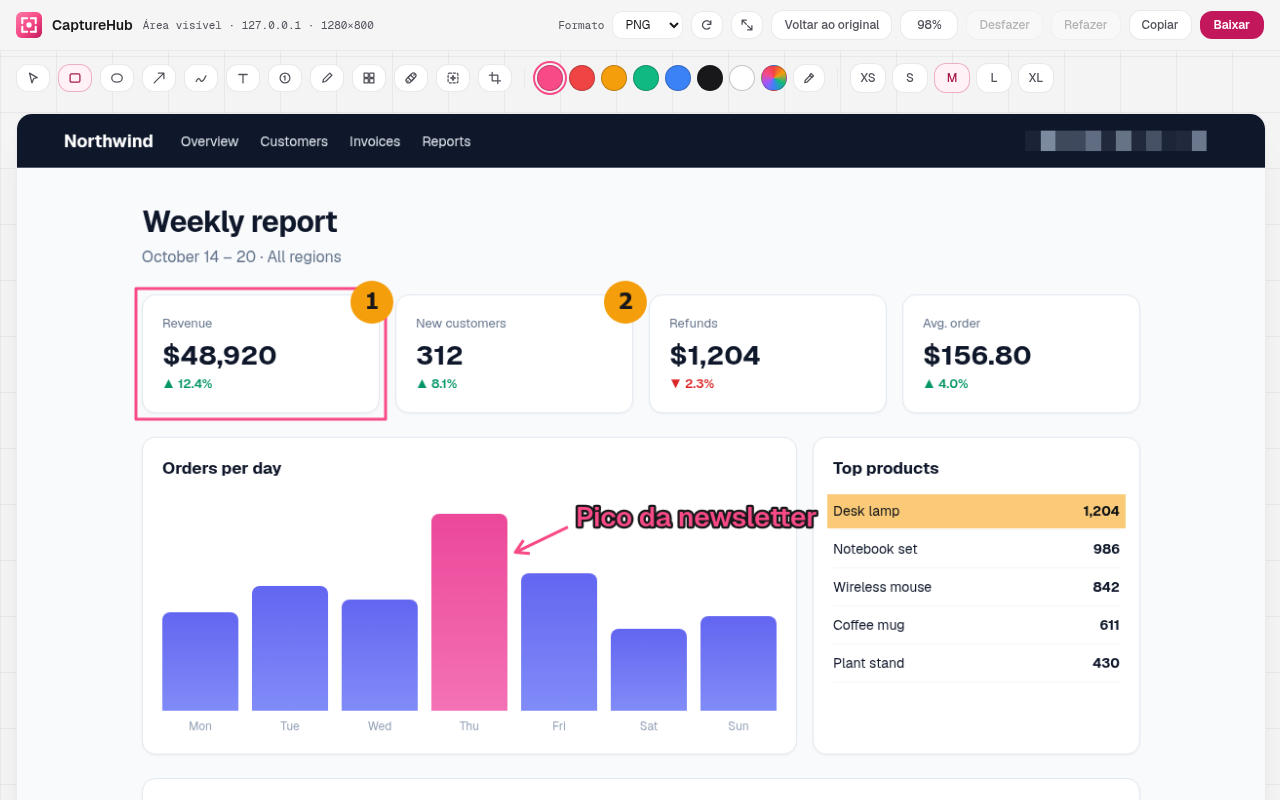
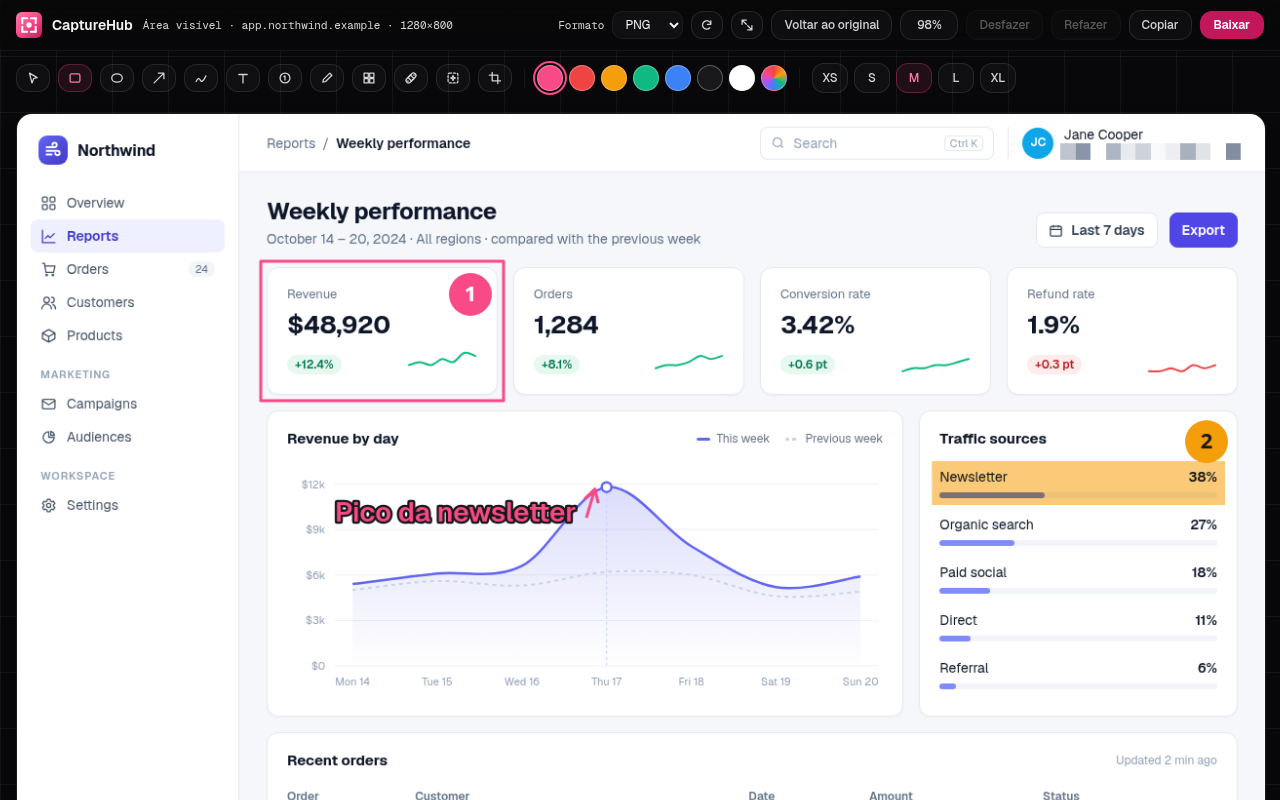
Store screenshots: refresh 01-editor for 15 locales; add e2e fixtures

diff --git a/tests/e2e/fixtures/showcase.html b/tests/e2e/fixtures/showcase.html
@@ -1,0 +1,186 @@
+<!DOCTYPE html>
+<html lang="en">
+<head>
+    <meta charset="UTF-8">
+    <title>Weekly performance · Northwind</title>
+    <!-- Mağaza ekran görüntüsü 01 (düzenleyici) için örnek analiz paneli (tools/make-store-assets.mjs). Veriler uydurmadır. -->
+    <style>
+        @font-face { font-family: 'Geist'; font-weight: 400; src: url('/fonts/geist-400-normal-B40WzpMT.woff2') format('woff2'); }
+        @font-face { font-family: 'Geist'; font-weight: 600; src: url('/fonts/geist-600-normal-CSETrqM2.woff2') format('woff2'); }
+        @font-face { font-family: 'Geist'; font-weight: 700; src: url('/fonts/geist-700-normal-CFi8mLqe.woff2') format('woff2'); }
+        * { box-sizing: border-box; }
+        body { margin: 0; display: flex; min-height: 100vh; font-family: Geist, system-ui, sans-serif; font-size: 14px; color: #0f172a; background: #f6f7fb; }
+        svg { display: block; }
+        aside { flex: 0 0 228px; padding: 18px 14px; background: #ffffff; border-right: 1px solid #e7e9f0; }
+        .brand { display: flex; align-items: center; gap: 10px; padding: 4px 8px 22px; font-size: 16px; font-weight: 700; letter-spacing: -0.2px; }
+        .logo { display: grid; place-items: center; width: 30px; height: 30px; border-radius: 9px; background: linear-gradient(135deg, #6366f1, #4338ca); }
+        .section { padding: 16px 10px 6px; font-size: 11px; font-weight: 600; letter-spacing: 0.08em; text-transform: uppercase; color: #94a3b8; }
+        nav a { display: flex; align-items: center; gap: 10px; padding: 8px 10px; border-radius: 8px; color: #475569; text-decoration: none; }
+        nav a.on { background: #eef0ff; color: #4338ca; font-weight: 600; }
+        nav a .n { margin-left: auto; padding: 1px 7px; border-radius: 999px; background: #f1f5f9; font-size: 11px; color: #64748b; }
+        nav svg { width: 17px; height: 17px; fill: none; stroke: currentColor; stroke-width: 1.8; stroke-linecap: round; stroke-linejoin: round; }
+        .page { flex: 1; min-width: 0; }
+        .top { display: flex; align-items: center; gap: 14px; height: 60px; padding: 0 28px; background: #ffffff; border-bottom: 1px solid #e7e9f0; }
+        .crumbs { color: #64748b; }
+        .crumbs b { color: #0f172a; font-weight: 600; }
+        .search { margin-left: auto; display: flex; align-items: center; gap: 8px; width: 240px; padding: 7px 10px; border: 1px solid #e2e8f0; border-radius: 8px; color: #94a3b8; }
+        .search kbd { margin-left: auto; padding: 0 5px; border: 1px solid #e2e8f0; border-radius: 4px; font: 11px Geist, sans-serif; }
+        .me { display: flex; align-items: center; gap: 10px; padding-left: 14px; border-left: 1px solid #e7e9f0; line-height: 1.25; }
+        .me small { display: block; color: #64748b; font-size: 12px; }
+        .av { display: grid; place-items: center; flex: 0 0 auto; width: 32px; height: 32px; border-radius: 50%; color: #fff; font-size: 12px; font-weight: 600; }
+        main { padding: 24px 28px; }
+        .head { display: flex; align-items: flex-end; gap: 12px; margin-bottom: 20px; }
+        h1 { margin: 0 0 4px; font-size: 24px; letter-spacing: -0.4px; }
+        .sub { margin: 0; color: #64748b; }
+        .btn { display: flex; align-items: center; gap: 8px; padding: 8px 12px; border: 1px solid #e2e8f0; border-radius: 8px; background: #ffffff; font-weight: 600; color: #334155; }
+        .btn.primary { border-color: #4f46e5; background: #4f46e5; color: #ffffff; }
+        .head .btn:first-of-type { margin-left: auto; }
+        .stats { display: grid; grid-template-columns: repeat(4, 1fr); gap: 16px; margin-bottom: 16px; }
+        .card { padding: 18px 20px; border: 1px solid #e7e9f0; border-radius: 12px; background: #ffffff; box-shadow: 0 1px 2px rgb(15 23 42 / 0.04); }
+        .label { color: #64748b; font-size: 13px; }
+        .value { margin: 6px 0 10px; font-size: 26px; font-weight: 700; letter-spacing: -0.5px; }
+        .row { display: flex; align-items: center; justify-content: space-between; }
+        .delta { padding: 2px 8px; border-radius: 999px; font-size: 12px; font-weight: 600; }
+        .delta.up { background: #e7f8ef; color: #047857; }
+        .delta.down { background: #fdecec; color: #b91c1c; }
+        .meta { color: #94a3b8; font-size: 12px; margin-left: 8px; }
+        .grid { display: grid; grid-template-columns: 2fr 1fr; gap: 16px; margin-bottom: 16px; }
+        h2 { margin: 0; font-size: 15px; }
+        .legend { display: flex; gap: 16px; color: #64748b; font-size: 12px; }
+        .legend i { display: inline-block; width: 14px; height: 3px; margin-right: 6px; vertical-align: middle; border-radius: 2px; background: #6366f1; }
+        .legend i.prev { background: repeating-linear-gradient(90deg, #cbd5e1 0 4px, transparent 4px 7px); }
+        #chart svg { width: 100%; height: 236px; margin-top: 12px; }
+        .src li { padding: 9px 0; }
+        .src ul { margin: 12px 0 0; padding: 0; list-style: none; }
+        .src .row span:last-child { font-weight: 600; }
+        .track { height: 6px; margin-top: 7px; border-radius: 999px; background: #f1f5f9; }
+        .track div { height: 100%; border-radius: 999px; background: #818cf8; }
+        table { width: 100%; margin-top: 10px; border-collapse: collapse; }
+        th { padding: 10px 0; text-align: left; color: #64748b; font-size: 12px; font-weight: 600; border-bottom: 1px solid #e7e9f0; }
+        td { padding: 11px 0; border-bottom: 1px solid #f1f5f9; }
+        .who { display: flex; align-items: center; gap: 10px; }
+        .who .av { width: 26px; height: 26px; font-size: 11px; }
+        .pill { padding: 3px 9px; border-radius: 999px; font-size: 12px; font-weight: 600; }
+        .paid { background: #e7f8ef; color: #047857; }
+        .pending { background: #fef4e2; color: #b45309; }
+    </style>
+</head>
+<body>
+    <aside>
+        <div class="brand">
+            <span class="logo"><svg width="18" height="18" viewBox="0 0 24 24" fill="none" stroke="#fff" stroke-width="2.4" stroke-linecap="round"><path d="M3 8h11a3 3 0 1 0-3-3M3 13h15a3 3 0 1 1-3 3M3 18h7"/></svg></span>
+            Northwind
+        </div>
+        <nav>
+            <a><svg viewBox="0 0 24 24"><rect x="3" y="3" width="7" height="7" rx="1.5"/><rect x="14" y="3" width="7" height="7" rx="1.5"/><rect x="3" y="14" width="7" height="7" rx="1.5"/><rect x="14" y="14" width="7" height="7" rx="1.5"/></svg>Overview</a>
+            <a class="on"><svg viewBox="0 0 24 24"><path d="M3 3v18h18M7 15l4-4 3 3 6-6"/></svg>Reports</a>
+            <a><svg viewBox="0 0 24 24"><path d="M6 7h15l-2 9H8L6 3H3"/><circle cx="9" cy="20" r="1"/><circle cx="18" cy="20" r="1"/></svg>Orders<span class="n">24</span></a>
+            <a><svg viewBox="0 0 24 24"><circle cx="9" cy="8" r="4"/><path d="M2 21a7 7 0 0 1 14 0M16 4a4 4 0 0 1 0 8M22 21a7 7 0 0 0-4-6.3"/></svg>Customers</a>
+            <a><svg viewBox="0 0 24 24"><path d="M21 8l-9-5-9 5 9 5 9-5zM3 8v8l9 5 9-5V8M12 13v8"/></svg>Products</a>
+            <div class="section">Marketing</div>
+            <a><svg viewBox="0 0 24 24"><rect x="3" y="5" width="18" height="14" rx="2"/><path d="M3 7l9 6 9-6"/></svg>Campaigns</a>
+            <a><svg viewBox="0 0 24 24"><path d="M20 12a8 8 0 1 1-8-8v8z"/><path d="M15 3.5A8 8 0 0 1 20.5 9H15z"/></svg>Audiences</a>
+            <div class="section">Workspace</div>
+            <a><svg viewBox="0 0 24 24"><circle cx="12" cy="12" r="3"/><path d="M19 12a7 7 0 0 0-.1-1.2l2-1.6-2-3.4-2.4 1a7 7 0 0 0-2-1.2L14 3h-4l-.5 2.6a7 7 0 0 0-2 1.2l-2.4-1-2 3.4 2 1.6a7 7 0 0 0 0 2.4l-2 1.6 2 3.4 2.4-1a7 7 0 0 0 2 1.2L10 21h4l.5-2.6a7 7 0 0 0 2-1.2l2.4 1 2-3.4-2-1.6c.1-.4.1-.8.1-1.2z"/></svg>Settings</a>
+        </nav>
+    </aside>
+    <div class="page">
+        <div class="top">
+            <span class="crumbs">Reports &nbsp;/&nbsp; <b>Weekly performance</b></span>
+            <span class="search"><svg width="15" height="15" viewBox="0 0 24 24" fill="none" stroke="currentColor" stroke-width="2"><circle cx="11" cy="11" r="7"/><path d="M20 20l-4-4"/></svg>Search<kbd>Ctrl K</kbd></span>
+            <span class="me"><span class="av" style="background:#0ea5e9">JC</span><span>Jane Cooper<small class="email">jane.cooper@northwind.example</small></span></span>
+        </div>
+        <main>
+            <div class="head">
+                <div><h1>Weekly performance</h1><p class="sub">October 14 – 20, 2024 · All regions · compared with the previous week</p></div>
+                <span class="btn"><svg width="15" height="15" viewBox="0 0 24 24" fill="none" stroke="currentColor" stroke-width="2"><rect x="3" y="5" width="18" height="16" rx="2"/><path d="M3 10h18M8 3v4M16 3v4"/></svg>Last 7 days</span>
+                <span class="btn primary">Export</span>
+            </div>
+
+            <section class="stats">
+                <div class="card"><div class="label">Revenue</div><div class="value">$48,920</div><div class="row"><span><span class="delta up">+12.4%</span></span><svg class="spark" width="72" height="26"></svg></div></div>
+                <div class="card"><div class="label">Orders</div><div class="value">1,284</div><div class="row"><span><span class="delta up">+8.1%</span></span><svg class="spark" width="72" height="26"></svg></div></div>
+                <div class="card"><div class="label">Conversion rate</div><div class="value">3.42%</div><div class="row"><span><span class="delta up">+0.6 pt</span></span><svg class="spark" width="72" height="26"></svg></div></div>
+                <div class="card"><div class="label">Refund rate</div><div class="value">1.9%</div><div class="row"><span><span class="delta down">+0.3 pt</span></span><svg class="spark" width="72" height="26"></svg></div></div>
+            </section>
+
+            <section class="grid">
+                <div class="card" id="chart">
+                    <div class="row"><h2>Revenue by day</h2><span class="legend"><span><i></i>This week</span><span><i class="prev"></i>Previous week</span></span></div>
+                    <svg></svg>
+                </div>
+                <div class="card src">
+                    <h2>Traffic sources</h2>
+                    <ul>
+                        <li id="newsletter"><div class="row"><span>Newsletter</span><span>38%</span></div><div class="track"><div style="width:38%"></div></div></li>
+                        <li><div class="row"><span>Organic search</span><span>27%</span></div><div class="track"><div style="width:27%"></div></div></li>
+                        <li><div class="row"><span>Paid social</span><span>18%</span></div><div class="track"><div style="width:18%"></div></div></li>
+                        <li><div class="row"><span>Direct</span><span>11%</span></div><div class="track"><div style="width:11%"></div></div></li>
+                        <li><div class="row"><span>Referral</span><span>6%</span></div><div class="track"><div style="width:6%"></div></div></li>
+                    </ul>
+                </div>
+            </section>
+
+            <section class="card">
+                <div class="row"><h2>Recent orders</h2><span class="meta">Updated 2 min ago</span></div>
+                <table>
+                    <thead><tr><th>Order</th><th>Customer</th><th>Date</th><th>Amount</th><th>Status</th></tr></thead>
+                    <tbody>
+                        <tr><td>#10482</td><td><span class="who"><span class="av" style="background:#f97316">MR</span>Maya Rivera</span></td><td>Oct 20</td><td>$412.00</td><td><span class="pill paid">Paid</span></td></tr>
+                        <tr><td>#10481</td><td><span class="who"><span class="av" style="background:#10b981">TO</span>Tom Okafor</span></td><td>Oct 20</td><td>$86.50</td><td><span class="pill pending">Pending</span></td></tr>
+                        <tr><td>#10480</td><td><span class="who"><span class="av" style="background:#8b5cf6">LS</span>Lena Schmidt</span></td><td>Oct 19</td><td>$1,240.00</td><td><span class="pill paid">Paid</span></td></tr>
+                    </tbody>
+                </table>
+            </section>
+        </main>
+    </div>
+    <script>
+        {
+        // Grafikler gerçek piksel boyutunda çizilir (daireler bozulmasın); tepe noktası #peak ile işaretlenir
+        const NS = 'http://www.w3.org/2000/svg';
+        const add = (parent, tag, attrs) => {
+            const el = document.createElementNS(NS, tag);
+            for (const [k, v] of Object.entries(attrs)) el.setAttribute(k, v);
+            parent.appendChild(el);
+            return el;
+        };
+        // Catmull-Rom'dan kübik Bézier: noktalardan geçen yumuşak eğri
+        const smooth = (pts) => pts.reduce((d, p, i) => {
+            if (i === 0) return `M${p[0]},${p[1]}`;
+            const a = pts[i - 2] || pts[i - 1], b = pts[i - 1], c = pts[i + 1] || p;
+            return `${d} C${b[0] + (p[0] - a[0]) / 6},${b[1] + (p[1] - a[1]) / 6} ${p[0] - (c[0] - b[0]) / 6},${p[1] - (c[1] - b[1]) / 6} ${p[0]},${p[1]}`;
+        }, '');
+
+        const sparks = [[5, 6, 5, 7, 6, 9, 8], [4, 5, 5, 6, 8, 7, 8], [3, 4, 4, 5, 5, 6, 7], [3, 3, 4, 3, 5, 4, 5]];
+        document.querySelectorAll('.spark').forEach((svg, i) => {
+            const v = sparks[i], color = i === 3 ? '#ef4444' : '#10b981';
+            const pts = v.map((y, j) => [2 + j * 68 / 6, 24 - (y - 2) * 22 / 7]);
+            add(svg, 'path', { d: smooth(pts), fill: 'none', stroke: color, 'stroke-width': 2, 'stroke-linecap': 'round' });
+        });
+
+        const svg = document.querySelector('#chart svg');
+        const W = svg.clientWidth, H = svg.clientHeight, left = 44, bottom = H - 24, top = 10;
+        const days = ['Mon 14', 'Tue 15', 'Wed 16', 'Thu 17', 'Fri 18', 'Sat 19', 'Sun 20'];
+        const cur = [5.4, 6.1, 6.6, 11.8, 7.9, 5.2, 5.9], prev = [5.0, 5.6, 5.3, 6.2, 6.0, 4.6, 4.9];
+        const x = (i) => left + 18 + i * (W - left - 36) / 6;
+        const y = (v) => bottom - v * (bottom - top) / 13;
+        svg.setAttribute('viewBox', `0 0 ${W} ${H}`);
+        const grad = add(add(svg, 'defs', {}), 'linearGradient', { id: 'fill', x1: 0, y1: 0, x2: 0, y2: 1 });
+        add(grad, 'stop', { offset: 0, 'stop-color': '#6366f1', 'stop-opacity': 0.22 });
+        add(grad, 'stop', { offset: 1, 'stop-color': '#6366f1', 'stop-opacity': 0 });
+        for (const v of [0, 3, 6, 9, 12]) {
+            add(svg, 'line', { x1: left, x2: W, y1: y(v), y2: y(v), stroke: '#eef0f4' });
+            add(svg, 'text', { x: left - 10, y: y(v) + 4, 'text-anchor': 'end', fill: '#94a3b8', 'font-size': 11 }).textContent = v ? `$${v}k` : '$0';
+        }
+        days.forEach((d, i) => { add(svg, 'text', { x: x(i), y: H - 4, 'text-anchor': 'middle', fill: '#94a3b8', 'font-size': 11 }).textContent = d; });
+        const curPts = cur.map((v, i) => [x(i), y(v)]);
+        const prevPts = prev.map((v, i) => [x(i), y(v)]);
+        add(svg, 'path', { d: `${smooth(curPts)} L${x(6)},${bottom} L${x(0)},${bottom} Z`, fill: 'url(#fill)' });
+        add(svg, 'path', { d: smooth(prevPts), fill: 'none', stroke: '#cbd5e1', 'stroke-width': 2, 'stroke-dasharray': '4 4' });
+        add(svg, 'path', { d: smooth(curPts), fill: 'none', stroke: '#6366f1', 'stroke-width': 2.5 });
+        add(svg, 'line', { x1: x(3), x2: x(3), y1: y(cur[3]), y2: bottom, stroke: '#c7d2fe', 'stroke-dasharray': '3 3' });
+        add(svg, 'circle', { id: 'peak', cx: x(3), cy: y(cur[3]), r: 5, fill: '#ffffff', stroke: '#6366f1', 'stroke-width': 2.5 });
+        }
+    </script>
+</body>
+</html>

diff --git a/tests/e2e/fixtures/modal.html b/tests/e2e/fixtures/modal.html
@@ -1,0 +1,28 @@
+<!DOCTYPE html>
+<html lang="en">
+<head>
+    <meta charset="UTF-8">
+    <title>Modal fixture</title>
+    <style>
+        body { margin: 0; background: #ffffff; }
+        /* showModal() ile üst katmanda açılan dialog; içinde 200x100 kutu */
+        dialog { margin: 0; top: 40px; left: 40px; padding: 0; border: 0; }
+        #dialog-box { width: 200px; height: 100px; background: #008000; }
+        /* Açık shadow root içinde 200x100 kutu; host daha büyük */
+        #host { display: block; width: 400px; height: 300px; background: #cccccc; }
+        /* Tam ekran, içi kayan modal; paneli görünümden uzun, alt ucu farklı renk */
+        #scrim { display: none; position: fixed; inset: 0; overflow-y: auto; background: rgba(0, 0, 0, 0.5); }
+        #panel { width: 300px; height: 1500px; margin: 20px 100px; background: #ffffff; position: relative; }
+        #panel-end { position: absolute; bottom: 0; left: 0; right: 0; height: 40px; background: #800080; }
+    </style>
+</head>
+<body>
+    <dialog id="dialog"><div id="dialog-box"></div></dialog>
+    <div id="host"></div>
+    <div id="scrim"><div id="panel"><div id="panel-end"></div></div></div>
+    <script>
+        const root = document.getElementById('host').attachShadow({ mode: 'open' });
+        root.innerHTML = '<div style="width:200px;height:100px;background:#000080"></div>';
+    </script>
+</body>
+</html>

diff --git a/tests/e2e/fixtures/shell.html b/tests/e2e/fixtures/shell.html
@@ -1,0 +1,28 @@
+<!DOCTYPE html>
+<html lang="en">
+<head>
+    <meta charset="UTF-8">
+    <title>Shell fixture</title>
+    <style>
+        /* Uygulama kabuğu (ChatGPT benzeri): pencere kaymaz; dar kenar çubuğu listesi ve geniş ana alan ayrı kayar */
+        html, body { margin: 0; height: 100%; overflow: hidden; }
+        body { display: flex; }
+        #side { width: 240px; display: flex; flex-direction: column; }
+        #side-list { flex: 1; overflow: auto; background: #404000; }
+        #side-list div { height: 3000px; }
+        #side-foot { height: 60px; background: #006060; }
+        #main { flex: 1; overflow: auto; }
+        #content div { height: 500px; }
+        #content div:nth-child(1) { background: #ff0000; }
+        #content div:nth-child(2) { background: #00ff00; }
+        #content div:nth-child(3) { background: #0000ff; }
+        #content div:nth-child(4) { background: #ffff00; }
+        #content div:nth-child(5) { background: #00ffff; }
+        #content div:nth-child(6) { background: #ff00ff; }
+    </style>
+</head>
+<body>
+    <aside id="side"><div id="side-list"><div></div></div><div id="side-foot"></div></aside>
+    <main id="main"><div id="content"><div></div><div></div><div></div><div></div><div></div><div></div></div></main>
+</body>
+</html>

diff --git a/tests/e2e/fixtures/body-scroll.html b/tests/e2e/fixtures/body-scroll.html
@@ -1,0 +1,25 @@
+<!DOCTYPE html>
+<html lang="en">
+<head>
+    <meta charset="UTF-8">
+    <title>Body scroll fixture</title>
+    <style>
+        /* Pencere değil body kayar; tam boy sabit sol menü */
+        html { height: 100%; overflow: hidden; }
+        body { margin: 0; height: 100%; overflow: auto; background: #ffffff; }
+        nav { position: fixed; left: 0; top: 0; width: 200px; height: 100%; background: #600000; }
+        #content { margin-left: 200px; }
+        #content div { height: 500px; }
+        #content div:nth-child(1) { background: #ff0000; }
+        #content div:nth-child(2) { background: #00ff00; }
+        #content div:nth-child(3) { background: #0000ff; }
+        #content div:nth-child(4) { background: #ffff00; }
+        #content div:nth-child(5) { background: #00ffff; }
+        #content div:nth-child(6) { background: #ff00ff; }
+    </style>
+</head>
+<body>
+    <nav></nav>
+    <div id="content"><div></div><div></div><div></div><div></div><div></div><div></div></div>
+</body>
+</html>
